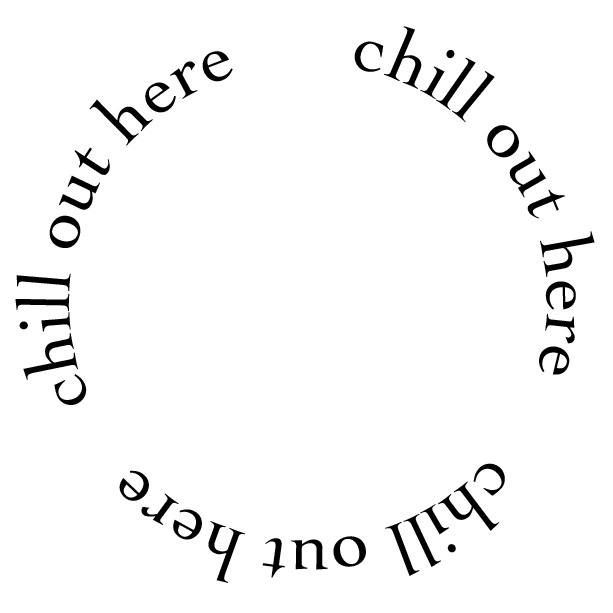
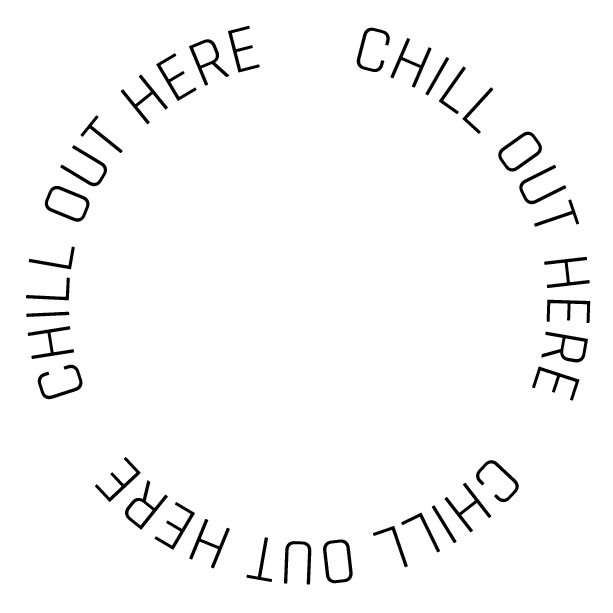
updated circle font

Changed region(s): [[0.155, 0.7439, 0.8679, 0.9608], [0.5579, 0.031, 0.9918, 0.6509], [0.031, 0.031, 0.4339, 0.6819]]

diff --git a/src/HomePage.js b/src/HomePage.js
@@ -8,7 +8,7 @@ import StandFor from './StandFor.js';
 import MiscSkills from './MiscSkills';
 import SayHello from './SayHello.js';
 
-import circleText from './images/circle-text.png';
+import circleText from './images/circle-text3.png';
 import rhoneFluteDark from './images/rhone-dark-flute2.jpg';
 import downArrow from './images/down-arrow-pretty.png';
 
